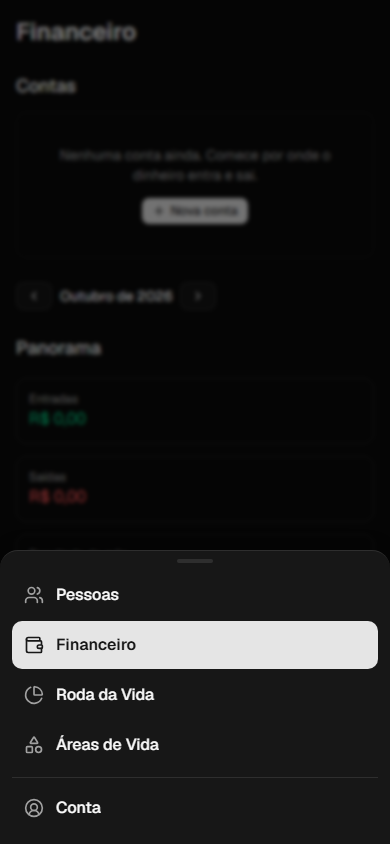
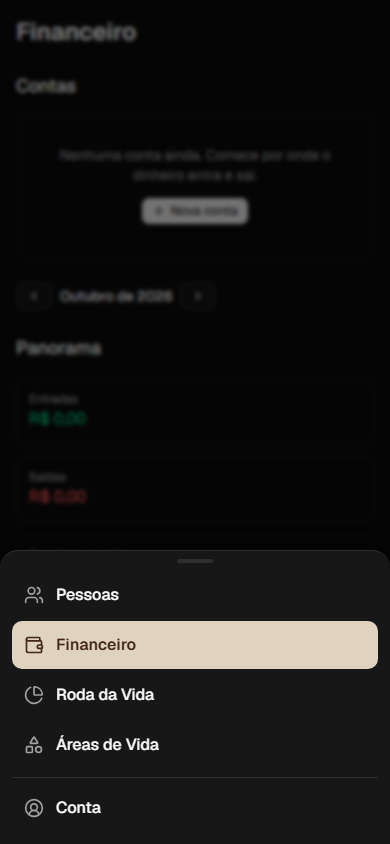
docs(sessao): progresso, log e erro de 2026-10-12; prints finais da Pílula
PROGRESSO.md com os dois PRs esperando merge (#135, #136) e os próximos passos;
log em docs/sessions/2026-10-12-menu-conta-troca-de-dono.md; ERROS.md com o
provisionUser que ressuscitava área apagada. Três prints refeitos com a pílula
na cor final (--marcador).

Changed region(s): [[0.0308, 0.7085, 0.9846, 0.8009]]

diff --git a/PROGRESSO.md b/PROGRESSO.md
@@ -7,7 +7,7 @@
 
 ---
 
-## Estado atual — atualizado em 2026-10-11
+## Estado atual — atualizado em 2026-10-12
 
 ### ✅ Feito
 - **Fase 1 (uso pessoal) completa e no ar** na Vercel (`orchestra-planner.vercel.app`), sob RLS por
@@ -26,26 +26,26 @@
   de violações). A `main` é protegida: PR obrigatório com o CI exigido, inclusive para admin.
 
 ### 🔄 Onde paramos
-- **Manutenção.** Nada em execução no OrchestraPlanner. O próximo projeto é o **DOM**
-  (`C:\projetos\DOM\DOM.txt`).
+- **Dois PRs com CI verde esperando o merge do dono** (2026-10-12), independentes entre si:
+  - **#135** menu fixo no computador, barra inferior no celular (Pílula, escolhida pelo dono)
+    e tela de Conta. Mockup em `docs/mockups/menu-inferior.html`; auditoria 19/20 em
+    `docs/ux/2026-10-12-auditoria-navegacao.md`.
+  - **#136** script de troca de dono (`scripts/troca-de-dono.ts`, simula por padrão) e a
+    correção do `provisionUser` que ressuscitava área apagada. Nunca rodado contra produção.
 
 ### 📋 Próximos passos, em ordem
-1. **Menu fixo e tela de Conta** (achados 9 e 12 do diagnóstico), ~3,5 h: navegação persistente
-   entre os módulos e Preferências/"Seus dados" fora do painel.
-2. **Script de troca de dono dos dados** — leva o `user_id` de toda tabela do ID antigo para o
-   novo, numa transação. Tem de existir **antes** de trocar o Clerk para produção. Mexe em dado
-   de produção: **pede aprovação do dono**.
-3. **Clerk de produção** pelo `docs/CLERK-PRODUCAO.md`, ~2,5 h do dono em dois dias (domínio,
-   DNS, chaves, webhook). A etapa 7 usa o script do passo 2.
-4. **Pendências menores:** contraste das cores de tag (escolhidas pelo usuário, sem garantia nos
-   dois temas); resumo por área do painel sem a cor da dimensão (o serviço não manda a
-   dimensão); `provisioning.test.ts` estourando 30 s contra o Neon quando roda local.
-5. **Com o dono:** #64 (validação manual da Fase 1, ~3 h) e #114 (opcional: prova de exclusão de
-   usuário de ponta a ponta).
-6. **Dependabot (conferido em 2026-10-11):** #117 e #120 fechados pelo próprio Dependabot (as
-   atualizações já tinham entrado pelo #128). Abertos, com CI verde: **#118** (Vitest 4 → 5) e
-   **#119** (dotenv 17 → 18) — as duas são versão major e pedem leitura das notas de mudança
-   antes do merge.
+1. **Dono:** mesclar #135 e #136 (qualquer ordem).
+2. **Dono, ~10 min:** abrir o app instalado no iPhone e conferir a barra (acima do indicador
+   de início; título fora da barra de status). Só foi testado em navegador emulado.
+3. **Clerk de produção** pelo `docs/CLERK-PRODUCAO.md`, ~2,5 h do dono em dois dias. A etapa 7
+   agora tem o script e o passo a passo; **não entrar no app de produção antes dela** (o e-mail
+   único faz o primeiro acesso dar erro).
+4. **Pendências menores:** contraste das cores de tag; resumo por área do painel sem a cor da
+   dimensão; `provisioning.test.ts` estourando 30 s contra o Neon quando roda local; o botão
+   "Mais" não anuncia ao leitor de tela qual tela está dentro dele (P3).
+5. **Com o dono:** #64 (validação manual da Fase 1, ~3 h).
+6. **Dependabot:** #118 (Vitest 5), #119 (dotenv 18) e #133 (grupo rotina) abertos; os dois
+   primeiros são major e pedem leitura das notas de mudança.
 
 ### 💡 Aprendizados de 2026-10-10/11
 - **O merge autônomo agora é barrado pelo sistema de permissões do Claude Code.** O fluxo atual:
@@ -68,6 +68,17 @@
 ## Histórico recente
 _Histórico de 2026-06-17 a 2026-09-04:
 [docs/sessions/historico-progresso-ate-2026-09-04.md](docs/sessions/historico-progresso-ate-2026-09-04.md)._
+
+- **2026-10-12 — Menu fixo, barra do celular, Conta e troca de dono (subagente):**
+  - **#135:** navegação persistente (achado 9) e tela de Conta (achado 12). Uma lista de telas
+    para o menu lateral (≥ 768 px) e a barra inferior (< 768 px). Barra: 4 destinos + "Mais",
+    rótulo visível, 56 px, `aria-current`, área segura do iPhone, `prefers-reduced-motion`.
+    Mockup de 3 estilos; o dono escolheu a **Pílula**, na cor `--marcador` (couro no claro,
+    papel no escuro). E2E novo em 390×844 e 1280×800; CSP agora varre a Conta e a janela do Clerk.
+  - **#136:** `scripts/troca-de-dono.ts` (simula por padrão; recusa conexão sujeita à RLS e
+    conta nova com dado). Achado: o e-mail único faz o primeiro acesso em produção dar erro
+    antes da etapa 7; guia corrigido. Defeito do `provisionUser` em `docs/ERROS.md`.
+  - Log: [docs/sessions/2026-10-12-menu-conta-troca-de-dono.md](docs/sessions/2026-10-12-menu-conta-troca-de-dono.md).
 
 - **2026-10-11 — Checkpoint de fim de sessão:** os 12 PRs da rodada de UX mesclados pelo dono
   (`main` em `829d488`), deploy de produção ok (200) e auditoria de produção em 0. Projeto volta

diff --git a/docs/ERROS.md b/docs/ERROS.md
@@ -170,3 +170,10 @@
 - **Causa raiz:** o ramo do #131 tinha sido montado mesclando, um a um, os ramos dos PRs anteriores (#122, #123, #124/#130, #125, #126); a `main` recebeu esses mesmos ramos por outros merges. Resultado: **cinco bases de merge** entre o ramo e a `main` (`git merge-base --all`). O git local (estratégia `ort`) junta várias bases numa base virtual e mescla limpo; a checagem do GitHub compara contra **uma** base só — e com qualquer uma das cinco o mesmo merge dá conflito (`git merge-tree --merge-base=<base>` reproduz). A simulação usou o algoritmo que tolera isso; o GitHub, não.
 - **Correção:** merge da `main` atual no ramo do #131 (sem force-push). A única base passa a ser a ponta da `main`, e o GitHub volta a marcar o PR como mesclável. Typecheck, lint, build e testes verdes.
 - **Como evitar a recorrência:** (1) não montar um ramo mesclando vários ramos-irmãos que vão entrar na `main` em separado — empilhar em fila (cada um sai do anterior) ou esperar o merge e partir da `main`; (2) ao simular uma ordem de merge, conferir também `git merge-base --all` e, quando houver mais de uma base, testar com `git merge-tree --write-tree --merge-base=<cada base>`, que é o que o GitHub enxerga; (3) depois de cada merge na `main`, olhar o estado "mesclável" dos PRs seguintes antes de seguir.
+
+### 2026-10-12 — `provisionUser` ressuscitava área de vida padrão apagada
+- **Contexto:** escrevendo o script de troca de dono (etapa 7 do Clerk de produção, PR #136).
+- **O que ocorreu:** `provisionUser` semeava as 12 Áreas de Vida padrão a cada chamada. O webhook do Clerk chama a cada `user.updated` (troca de nome ou e-mail) e reentrega `user.created` quando não recebe 2xx. Uma área padrão que a pessoa tinha apagado voltava sozinha. Na troca de dono isso aconteceria com certeza: o `user.created` da conta nova falha (e-mail único ainda do ID antigo) e é reentregue depois do script.
+- **Causa raiz:** "garantir as áreas" foi escrito como idempotente (`on conflict do nothing`), mas idempotente em relação ao que **existe**, não ao que a pessoa **escolheu apagar**. O teste só cobria "repetir não duplica".
+- **Correção:** semear só quando a linha nasce (`xmax = 0` no `returning` do upsert), com teste "user.updated não ressuscita área apagada" (#136).
+- **Como evitar a recorrência:** semente de dado editável pelo usuário roda **uma vez**, no nascimento, nunca num caminho que se repete (webhook, renderização). O teste de idempotência inclui "apagar e chamar de novo".

diff --git a/docs/sessions/2026-10-12-menu-conta-troca-de-dono.md b/docs/sessions/2026-10-12-menu-conta-troca-de-dono.md
@@ -1,0 +1,42 @@
+# 2026-10-12 — Menu fixo, barra do celular, tela de Conta e troca de dono
+
+- **Sessão:** Claude como subagente do OrchestraPlanner, a partir de `fe52b9a` (main). O dono
+  liberou o trabalho ("está tudo liberado"); nenhum merge feito pela sessão.
+
+## Entregue
+
+| PR | O que é | CI |
+|---|---|---|
+| #135 | Menu lateral fixo (≥ 768 px), barra inferior Pílula (< 768 px), tela de Conta, mockup e auditoria do Impeccable | verde; E2E verde por *Run workflow* |
+| #136 | `scripts/troca-de-dono.ts` + correção do `provisionUser` + etapa 7 do guia do Clerk | verde (13 testes da troca rodaram no Postgres do CI) |
+
+## Decisões e porquês
+
+- **Uma lista de telas para os dois menus** (`nav-items.ts`), corte único em `md`: menu lateral
+  e barra nunca aparecem juntos nem discordam.
+- **Pílula** (escolha do dono entre Pílula, Traço e Botão central) na cor `--marcador`: marcador
+  de página do planner, couro no claro e papel no escuro. As cores de Corpo / Alma / Espírito
+  ficam fora do menu porque lá querem dizer a dimensão.
+- **Metas na barra, Financeiro no "Mais"**: "a meta é o centro" (`PRODUCT.md`). Trocar é mudar
+  `MOBILE_PRIMARY`.
+- **Conta é o único lugar de conta:** o avatar do Clerk saiu do painel; "Gerenciar login" e
+  "Sair" moram na Conta.
+- **Troca de dono numa transação, simulando por padrão**, recusando conexão sujeita à RLS (sob
+  ela, o apagar do usuário antigo levaria tudo junto) e conferindo cada UPDATE contra a contagem.
+- **Testes de integração da troca só no CI:** o `.env` local aponta para o Neon; localmente
+  rodaram só os testes puros, com as conexões desligadas.
+
+## Achados
+
+- O **e-mail é único** em `users`: entrar no app de produção com o ID novo antes da etapa 7 dá
+  erro na tela. Guia corrigido para criar o usuário pelo painel do Clerk, rodar o script e só
+  então entrar.
+- `provisionUser` ressuscitava área padrão apagada a cada `user.updated` (`docs/ERROS.md`).
+
+## Onde paramos / próximo passo
+
+1. Dono: mesclar #135 e #136 (independentes).
+2. Dono: conferir a barra no iPhone (~10 min).
+3. Dono: Clerk de produção pelo `docs/CLERK-PRODUCAO.md`, com a etapa 7 usando o script.
+4. Sugestões de UI fora da barra, não aplicadas a pedido do dono, em
+   `docs/ux/2026-10-12-auditoria-navegacao.md`.
